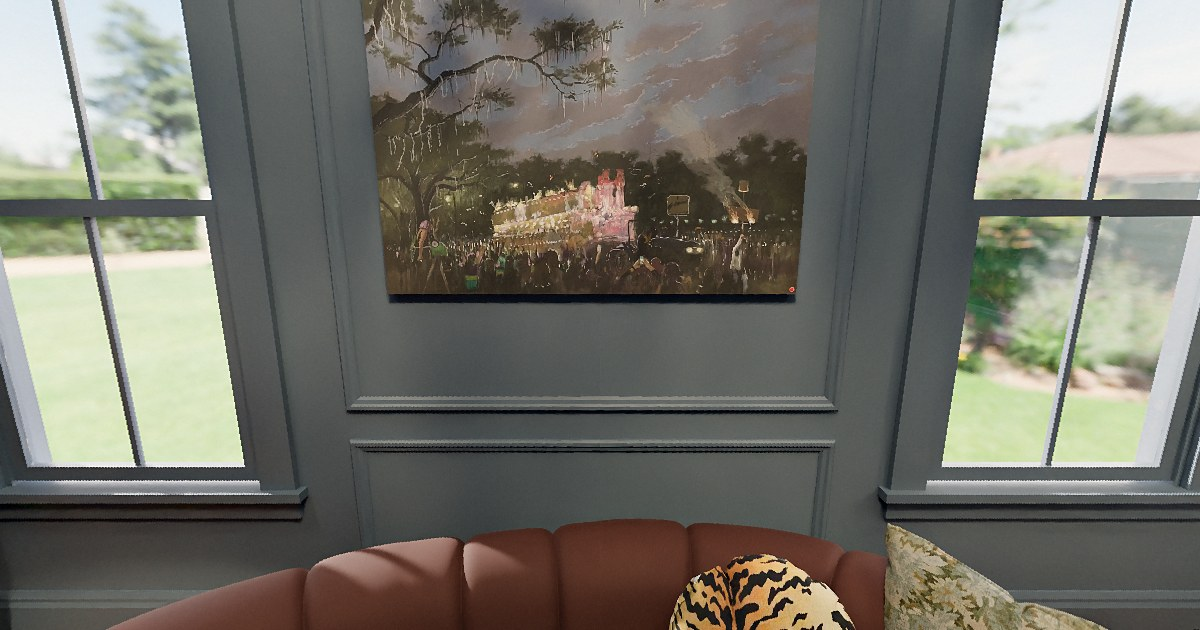
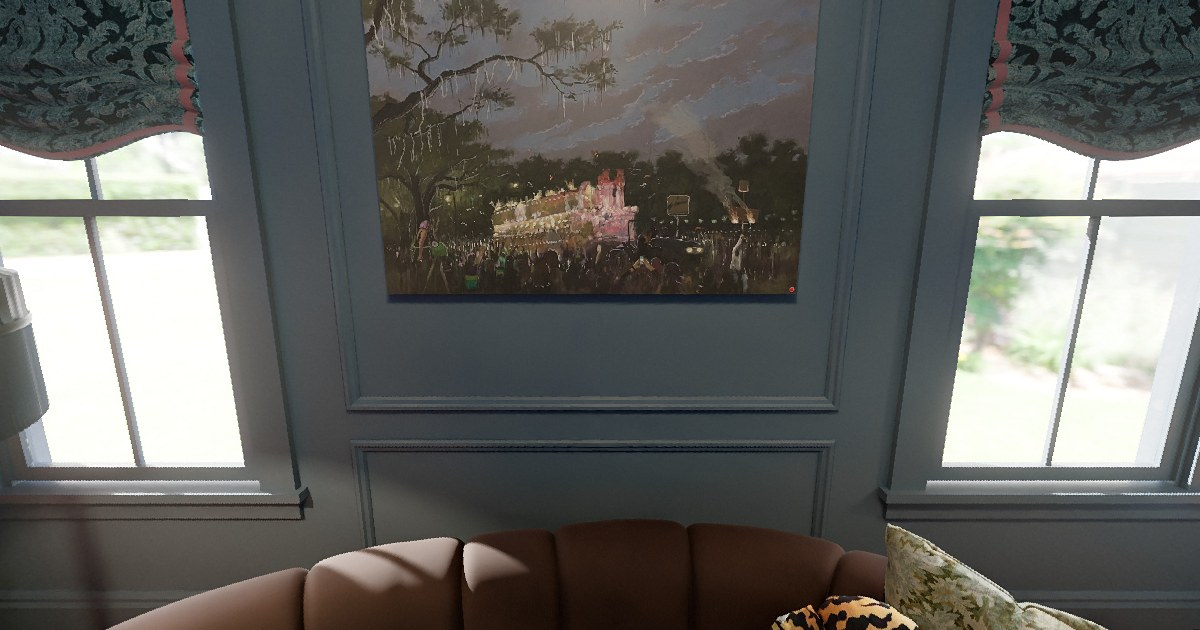
Parlor 360 v2: realistic lighting, true material colours, retouch

diff --git a/parlor_tour.js b/parlor_tour.js
@@ -1,1 +1,1 @@
-window.TOUR = {"project": "629 Burdette St · Parlor", "default_node": "parlor", "default_floor": "main", "default_doors": "closed", "floors": {"main": "As designed"}, "doors": {"closed": "-"}, "client": {"name": "Maureen Stevens Design", "url": "https://www.maureenstevens.com/"}, "times": ["day"], "nodes": [{"id": "parlor", "label": "Parlor", "view": {"yaw": 180, "pitch": -14, "hfov": 108}, "views": [{"id": "sofa", "label": "Sofa & art", "short": "Sofa", "yaw": 180, "pitch": -14, "hfov": 108}, {"id": "door", "label": "Hidden door wall", "short": "Door wall", "yaw": -90, "pitch": -3, "hfov": 96}, {"id": "chair", "label": "Chair & coffee table", "short": "Chair", "yaw": -40, "pitch": -28, "hfov": 104}, {"id": "foyer", "label": "Cabinet & foyer", "short": "Cabinet", "yaw": 95, "pitch": -6, "hfov": 100}, {"id": "ceiling", "label": "Ceiling & chandelier", "short": "Ceiling", "yaw": 0, "pitch": 58, "hfov": 110}], "links": [], "appliances": [], "photos": [], "panos": {"floor-main__doors-closed": {"full": "pano_parlor01.jpg?v=1", "mobile": "pano_parlor01_m.jpg?v=1"}}}], "stills": []};
+window.TOUR = {"project": "629 Burdette St · Parlor", "default_node": "parlor", "default_floor": "main", "default_doors": "closed", "floors": {"main": "As designed"}, "doors": {"closed": "-"}, "client": {"name": "Maureen Stevens Design", "url": "https://www.maureenstevens.com/"}, "times": ["day"], "nodes": [{"id": "parlor", "label": "Parlor", "view": {"yaw": 180, "pitch": -14, "hfov": 108}, "views": [{"id": "sofa", "label": "Sofa & art", "short": "Sofa", "yaw": 180, "pitch": -14, "hfov": 108}, {"id": "door", "label": "Hidden door wall", "short": "Door wall", "yaw": -90, "pitch": -3, "hfov": 96}, {"id": "chair", "label": "Chair & coffee table", "short": "Chair", "yaw": -40, "pitch": -28, "hfov": 104}, {"id": "foyer", "label": "Cabinet & foyer", "short": "Cabinet", "yaw": 95, "pitch": -6, "hfov": 100}, {"id": "ceiling", "label": "Ceiling & chandelier", "short": "Ceiling", "yaw": 0, "pitch": 58, "hfov": 110}], "links": [], "appliances": [], "photos": [], "panos": {"floor-main__doors-closed": {"full": "pano_parlor01_v2.jpg?v=2", "mobile": "pano_parlor01_v2_m.jpg?v=2"}}}], "stills": []};

diff --git a/parlor.html b/parlor.html
@@ -252,7 +252,7 @@
 </section>
 
 <script src="https://cdnjs.cloudflare.com/ajax/libs/pannellum/2.5.6/pannellum.js"></script>
-<script src="parlor_tour.js?v=1"></script>
+<script src="parlor_tour.js?v=2"></script>
 <script>
 (async function(){
   const $ = id => document.getElementById(id);
@@ -456,7 +456,7 @@
     FLT.innerHTML=h;
   }
   let saved={};
-  try { saved=JSON.parse(localStorage.getItem('burdetteParlorAdjust1')||'{}')||{}; } catch(e){ saved={}; }
+  try { saved=JSON.parse(localStorage.getItem('burdetteParlorAdjust2')||'{}')||{}; } catch(e){ saved={}; }
   const qn=k=>{ const v=parseFloat(qs.get(k)); return isFinite(v)?v:null; };
   // old links used ?b=115&c=105 (100 = neutral)
   const legacyB=qn('b'), legacyC=qn('c');
@@ -471,7 +471,7 @@
     $('oBri').textContent=fmt(b,true); $('oCon').textContent=fmt(c,true); $('oCla').textContent=fmt(cl); $('oTex').textContent=fmt(tx);
     for (const r of RNG) r.style.setProperty('--fill', ((r.value-r.min)/(r.max-r.min)*100)+'%');
     if(store){
-      try { localStorage.setItem('burdetteParlorAdjust1', JSON.stringify({br:b,ct:c,cl,tx})); } catch(e){}
+      try { localStorage.setItem('burdetteParlorAdjust2', JSON.stringify({br:b,ct:c,cl,tx})); } catch(e){}
       const q=new URLSearchParams(location.search);
       q.delete('b'); q.delete('c');
       for (const [k,v] of [['br',b],['ct',c],['cl',cl],['tx',tx]]) { if(v!==0) q.set(k,v); else q.delete(k); }
